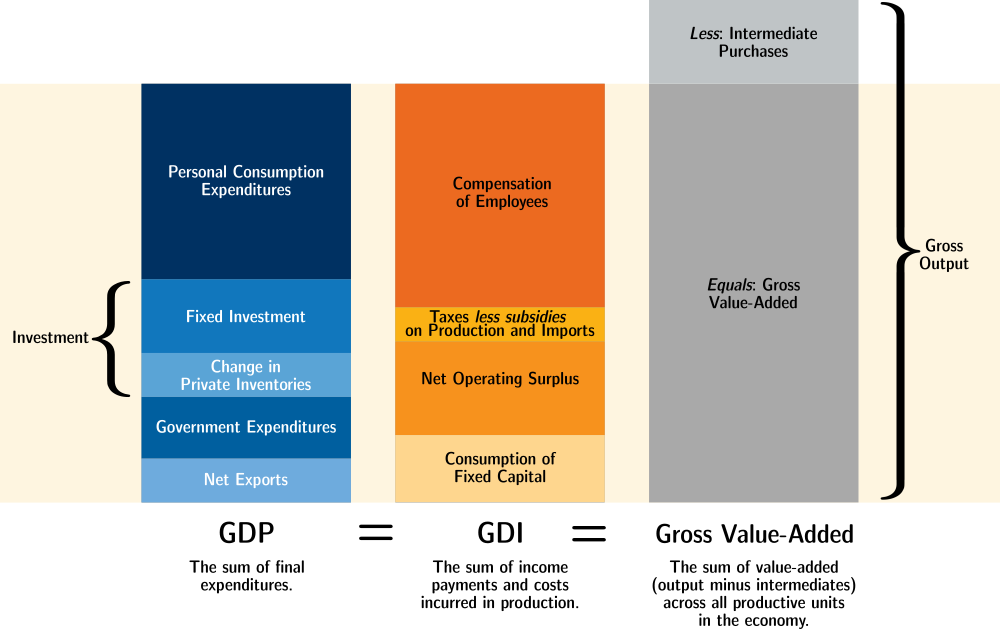
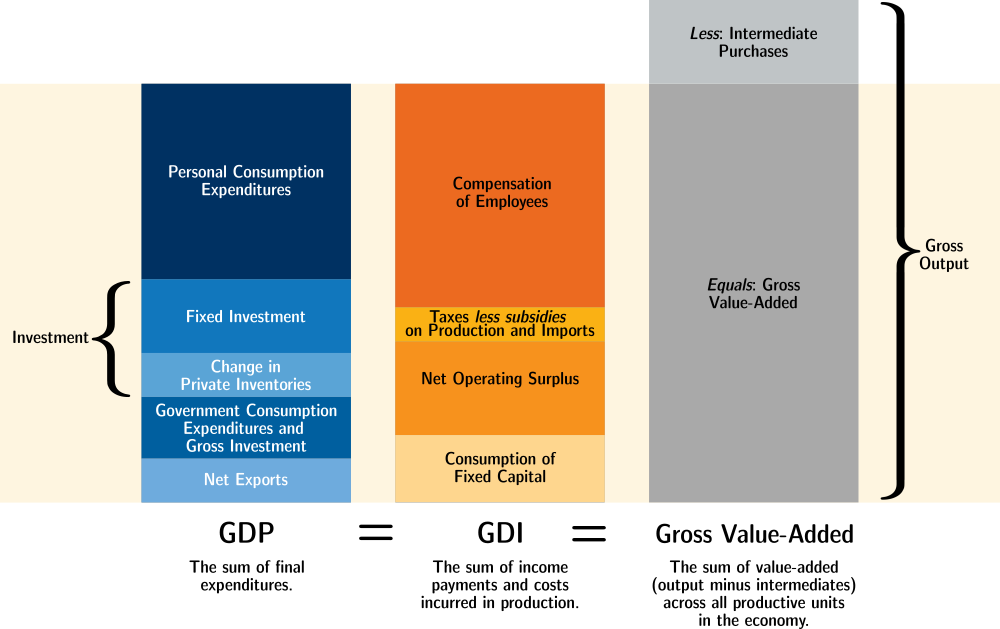
Fix GDP graphic, test GDP table

Changed region(s): [[0.155, 0.6343, 0.341, 0.725]]

diff --git a/3102/measurement-gdp.md b/3102/measurement-gdp.md
@@ -60,21 +60,9 @@ In theory, all three approaches should yield the same total value.
 <figcaption>Three ways to measure GDP. Recreation of figure 2.1 from the BEA's NIPA Handbook. GDP components not to scale.</figcaption>
 </figure>
 
-And the following just uses html
-
-
-<figure markdown="block">
-<img src="img-gdp-three-ways.png" alt="An image using a bar chart to depict the equivalence of the three approaches to measuring GDP">
-<figcaption>Three ways to measure GDP. Recreation of figure 2.1 from the BEA's NIPA Handbook. GDP components not to scale.</figcaption>
-</figure>
-
 
 
 ### Expenditure Approach:
-
-![An image using a bar chart to depict the equivalence of the three approaches to measuring GDP](img-gdp-three-ways.png)
-
-
 
 Measures output by looking at where that output goes.
 
@@ -87,6 +75,42 @@ $$C + I + G + NX$$
 - Net Exports (Exports - Imports)
 
 <!--Government investment is always counted, but where it goes in the formula varies. BEA lumps Gov consumption and invesetment together. OECD seems to seperate them. Need to double check on that before uncommenting this part.-->
+
+#### Components of US Expenditure Approach GDP 
+
+The following table shows the components of expenditure approach GDP for the United States in 2019
+| Component| 2019 | percent | trillions |
+|------------------------------------------------------------|------------|--------|------|
+|     Gross domestic product                                 | 21,372,582 | 100.0% | 21.4 |
+| Personal consumption expenditures                          | 14,428,676 | 67.5%  | 14.4 |
+| &emsp; Goods                                                  | 4,478,918  | 21.0%  | 4.5  |
+| &emsp;&emsp;      Durable goods                                        | 1,513,285  | 7.1%   | 1.5  |
+| &emsp;&emsp;      Nondurable goods                                     | 2,965,633  | 13.9%  | 3.0  |
+|  &emsp;   Services                                               | 9,949,758  | 46.6%  | 9.9  |
+| Gross private domestic investment                          | 3,826,258  | 17.9%  | 3.8  |
+|     Fixed investment                                       | 3,752,632  | 17.6%  | 3.8  |
+|       Nonresidential                                       | 2,938,716  | 13.7%  | 2.9  |
+|         Structures                                         | 672,634    | 3.1%   | 0.7  |
+|         Equipment                                          | 1,231,319  | 5.8%   | 1.2  |
+|         Intellectual property products                     | 1,034,763  | 4.8%   | 1.0  |
+|       Residential                                          | 813,916    | 3.8%   | 0.8  |
+|     Change in private inventories                          | 73,626     | 0.3%   | 0.1  |
+| Net exports of goods and services                          | -596,263   | -2.8%  | -0.6 |
+|     Exports                                                | 2,519,727  | 11.8%  | 2.5  |
+|       Goods                                                | 1,641,729  | 7.7%   | 1.6  |
+|       Services                                             | 877,998    | 4.1%   | 0.9  |
+|     Imports                                                | 3,115,990  | 14.6%  | 3.1  |
+|       Goods                                                | 2,517,913  | 11.8%  | 2.5  |
+|       Services                                             | 598,077    | 2.8%   | 0.6  |
+| Government consumption expenditures and   gross investment | 3,713,912  | 17.4%  | 3.7  |
+|     Federal                                                | 1,414,931  | 6.6%   | 1.4  |
+|       National defense                                     | 847,538    | 4.0%   | 0.8  |
+|       Nondefense                                           | 567,393    | 2.7%   | 0.6  |
+|     State and local                                        | 2,298,981  | 10.8%  | 2.3  |
+
+
+
+
 
 ### Value-added (or Output or Product) Approach:
 
